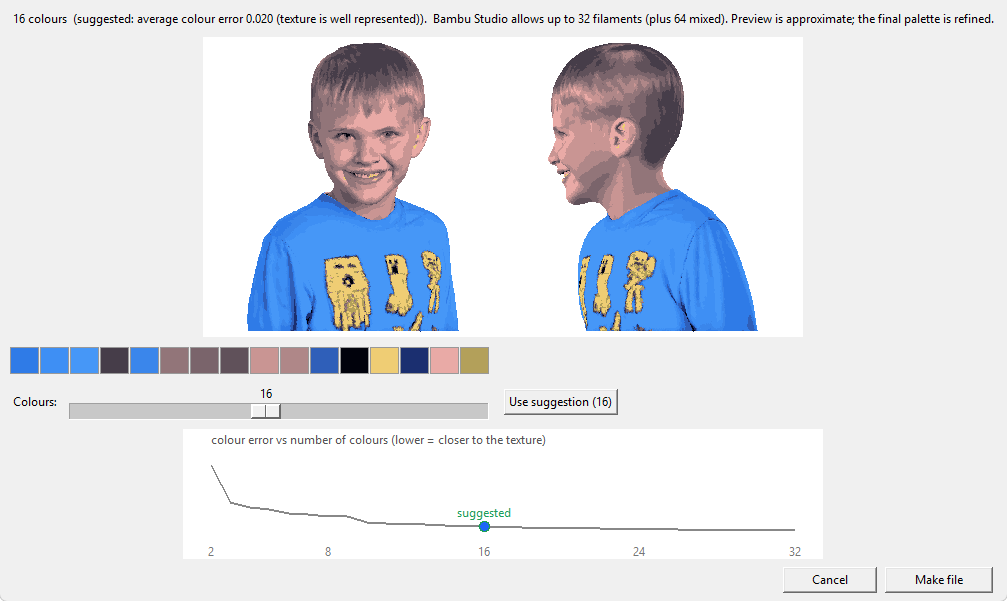
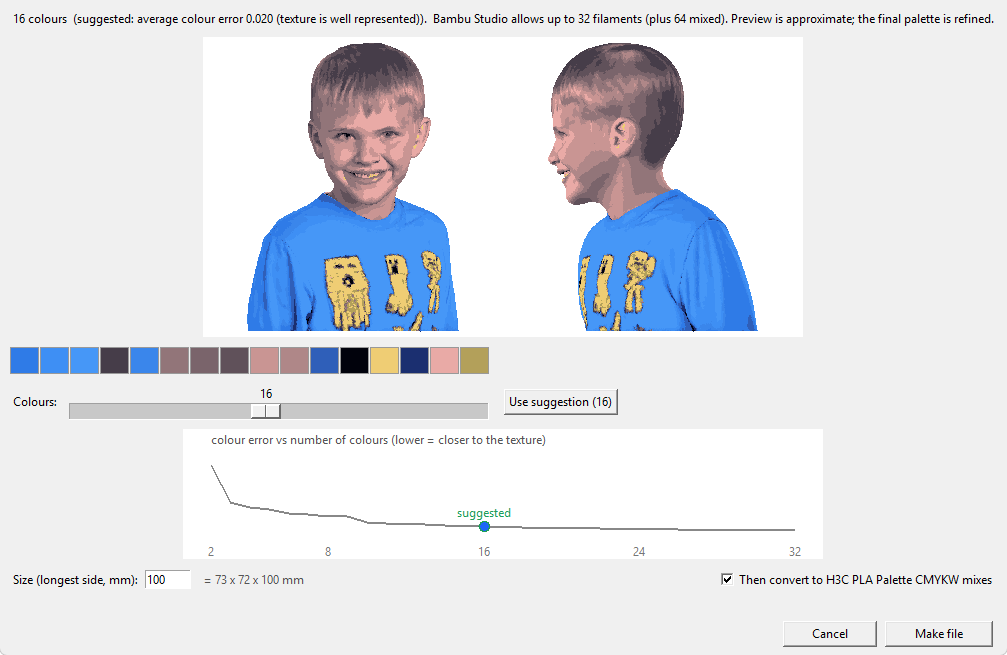
GLB window: size and H3C-step options in the window, no flags needed
Size (longest side, mm, with live W x D x H) and a 'then convert to H3C
CMYKW' checkbox join the colour slider, so a dropped file needs nothing on
the command line. Flags remain only as optional presets for scripting.

diff --git a/glb2bambu.py b/glb2bambu.py
@@ -693,30 +693,41 @@ def finalize(prep, n_colors, base, out=None):
     return out
 
 
+def rescale(prep, size_mm):
+    """Scale the prepared mesh so its longest side is size_mm (stays centred, on the bed)."""
+    cur = float((prep["P"].max(0) - prep["P"].min(0)).max())
+    if size_mm and abs(cur - size_mm) > 1e-6:
+        f = size_mm / cur
+        prep["P"] = prep["P"] * f
+        prep["area"] = prep["area"] * f * f
+
+
 def convert(path, n_colors=None, size_mm=DEFAULT_SIZE, do_smooth=True, base=None, gui=True):
-    """n_colors=None: suggest a count; with gui=True a selector window opens to confirm/change it."""
+    """Returns (written 3MF path, make_h3c) or None if cancelled.
+    gui=True: a window opens with colour count (suggested), size and the H3C option.
+    gui=False: uses n_colors (or the suggestion), size_mm, and make_h3c=True."""
     base = base or json.load(open(h3c_mix.BASE_FILE))
     prep = prepare(path, size_mm, do_smooth)
-    if n_colors is None:
-        print("Measuring how many colours this texture needs...")
-        curve, pick, reason = suggest(prep)
-        print("Suggested: %d colours (%s)" % (pick, reason))
-        n_colors = pick
-        if gui:
-            try:
-                import glb_selector
-                chosen = glb_selector.choose(prep, curve, pick, reason)
-            except ImportError as e:
-                print("No GUI available (%s) - using the suggestion." % e)
-                chosen = pick
-            except Exception as e:
-                print("Selector failed (%s) - using the suggestion." % e.__class__.__name__)
-                chosen = pick
-            if chosen is None:
-                print("Cancelled - nothing written.")
-                return None
-            n_colors = chosen
-    return finalize(prep, n_colors, base)
+    make_h3c = True
+    print("Measuring how many colours this texture needs...")
+    curve, pick, reason = suggest(prep)
+    print("Suggested: %d colours (%s)" % (pick, reason))
+    start = n_colors if n_colors in curve else pick
+    if gui:
+        try:
+            import glb_selector
+            chosen = glb_selector.choose(prep, curve, start, reason)
+        except Exception as e:
+            print("No window available (%s) - using %d colours." % (e.__class__.__name__, start))
+            chosen = {"n": start, "size_mm": size_mm, "make_h3c": True}
+        if chosen is None:
+            print("Cancelled - nothing written.")
+            return None
+        n_colors, make_h3c = chosen["n"], chosen["make_h3c"]
+        rescale(prep, chosen["size_mm"])
+    else:
+        n_colors = n_colors or pick
+    return finalize(prep, n_colors, base), make_h3c
 
 
 def parse_args(args):
@@ -747,8 +758,7 @@ def main():
             return
         for f in files:
             try:
-                if convert(f, opts["colors"], opts["size"], opts["smooth"], gui="--auto" not in args) is None:
-                    continue
+                convert(f, opts["colors"], opts["size"], opts["smooth"], gui="--auto" not in args)
             except SystemExit as e:
                 print("! %s" % e)
             except Exception as e:

diff --git a/glb_selector.py b/glb_selector.py
@@ -141,17 +141,62 @@ def choose(prep, curve, suggested, reason, _test_hook=None):
 
     scale.configure(command=on_slide)
 
+    # ---- options (everything is set here; nothing needs command-line flags)
+    ext = prep["P"].max(0) - prep["P"].min(0)
+    base_size = float(ext.max())
+    opt = tk.Frame(root)
+    opt.pack(fill="x", padx=10, pady=(8, 0))
+    tk.Label(opt, text="Size (longest side, mm):").pack(side="left")
+    size_var = tk.StringVar(value="%g" % round(base_size, 1))
+    size_entry = tk.Entry(opt, textvariable=size_var, width=7)
+    size_entry.pack(side="left", padx=4)
+    dims = tk.StringVar()
+    tk.Label(opt, textvariable=dims, fg="#555").pack(side="left", padx=6)
+    h3c_var = tk.BooleanVar(value=True)
+    tk.Checkbutton(opt, text="Then convert to H3C PLA Palette CMYKW mixes",
+                   variable=h3c_var).pack(side="right")
+    err = tk.StringVar()
+    tk.Label(root, textvariable=err, fg="#C0392B", anchor="w").pack(fill="x", padx=10)
+
+    def read_size():
+        try:
+            v = float(size_var.get())
+        except ValueError:
+            return None
+        return v if 5.0 <= v <= 320.0 else None
+
+    def show_dims(*_):
+        v = read_size()
+        if v is None:
+            dims.set("")
+            err.set("Enter a size between 5 and 320 mm.")
+            return
+        err.set("")
+        d = ext * (v / base_size)
+        dims.set("= %.0f x %.0f x %.0f mm" % (d[0], d[1], d[2]))
+    size_var.trace_add("write", show_dims)
+    show_dims()
+
     bar = tk.Frame(root)
     bar.pack(fill="x", padx=10, pady=8)
 
     def done(val):
         result["n"] = val
         root.destroy()
-    tk.Button(bar, text="Make file", width=14, command=lambda: done(int(n_var.get()))).pack(side="right", padx=4)
+
+    def make():
+        v = read_size()
+        if v is None:
+            err.set("Enter a size between 5 and 320 mm.")
+            size_entry.focus_set()
+            return
+        done({"n": int(n_var.get()), "size_mm": v, "make_h3c": bool(h3c_var.get())})
+    tk.Button(bar, text="Make file", width=14, command=make).pack(side="right", padx=4)
     tk.Button(bar, text="Cancel", width=12, command=lambda: done(None)).pack(side="right", padx=4)
     root.protocol("WM_DELETE_WINDOW", lambda: done(None))
     update()
     if _test_hook:
-        _test_hook(root, n_var, update, done)
+        _test_hook(root, {"n": n_var, "size": size_var, "h3c": h3c_var, "update": update,
+                          "make": make, "cancel": lambda: done(None)})
     root.mainloop()
     return result["n"]

diff --git a/h3c_mix.py b/h3c_mix.py
@@ -640,8 +640,11 @@ def main():
                     if HERE not in sys.path:
                         sys.path.insert(0, HERE)
                     import glb2bambu
-                    f = glb2bambu.convert(f, base=base, gui=gui, **glb_opts)
-                    if f is None:
+                    res = glb2bambu.convert(f, base=base, gui=gui, **glb_opts)
+                    if res is None:
+                        continue
+                    f, make_h3c = res
+                    if not make_h3c:
                         continue
                 except SystemExit as e:
                     print("! %s" % e)

diff --git a/README.md b/README.md
@@ -28,7 +28,8 @@ Drop a `.glb` (or `.gltf`) on the same `.bat` and `glb2bambu.py` runs first:
   in OKLab, merging look-alike shades so every slot is a visibly different color,
   then cleans up stray single-triangle specks
 * welds the texture-seam vertices so the mesh is watertight for slicing
-* scales to **100 mm** on the longest side (`--size MM`), stands it up Z-up on the bed
+* scales it to the size you set in the window (default **100 mm** on the longest side) and
+  stands it up Z-up on the bed
 * writes `<name>_<N>colors.3mf` — a normal painted Bambu project with N filaments,
   usable on its own on any multi-color Bambu printer
 
@@ -50,7 +51,9 @@ a physical filament, so 32 is the ceiling. For the H3C path every color then
 becomes a mix of the 5 Palette spools, so more colors means more mixes and more
 tool changes, not more spools.
 
-Skip the window: `--colors N` uses N directly, `--auto` uses the suggestion.
+Everything is set in that window — color count, size (it shows the resulting
+W x D x H as you type), and a checkbox for whether to go on and make the H3C CMYKW
+file. Just drop the file; nothing needs adding to the `.bat`.
 
 **Works with any glTF**, not just MakerLab: `.glb` and `.gltf` (embedded,
 data-URI or side-car `.bin`/image files), textures, vertex colors and plain
@@ -120,8 +123,8 @@ Drop one or more `.3mf` files onto **`Drop 3MF here.bat`** (Windows), or:
 python h3c_mix.py file.3mf|file.glb|file.gltf [more ...] [--auto] [--no-pause] [--colors N] [--size 100]
 ```
 
-(`--colors` and `--size` only apply to `.glb`/`.gltf` input. `--auto` skips both windows:
-the GLB color-count selector and the CMYKW mix chooser.)
+The flags are optional, for scripting only; dropping a file never needs them.
+`--colors` and `--size` preset the GLB window; `--auto` skips both windows.
 
 Before writing, a **chooser window** shows each source color next to its best
 mix candidates (recipe and dE under each swatch). The automatic pick is
